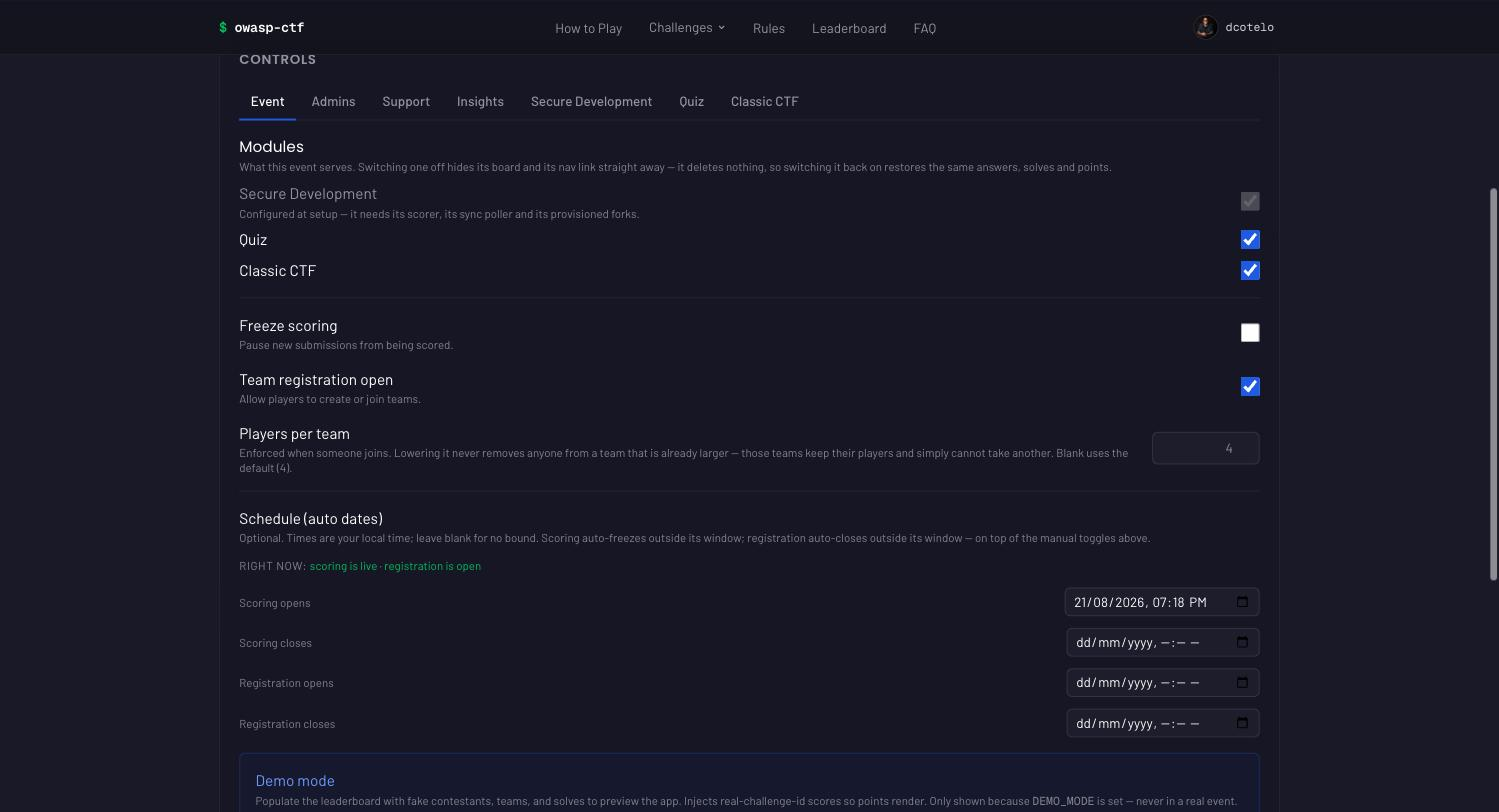
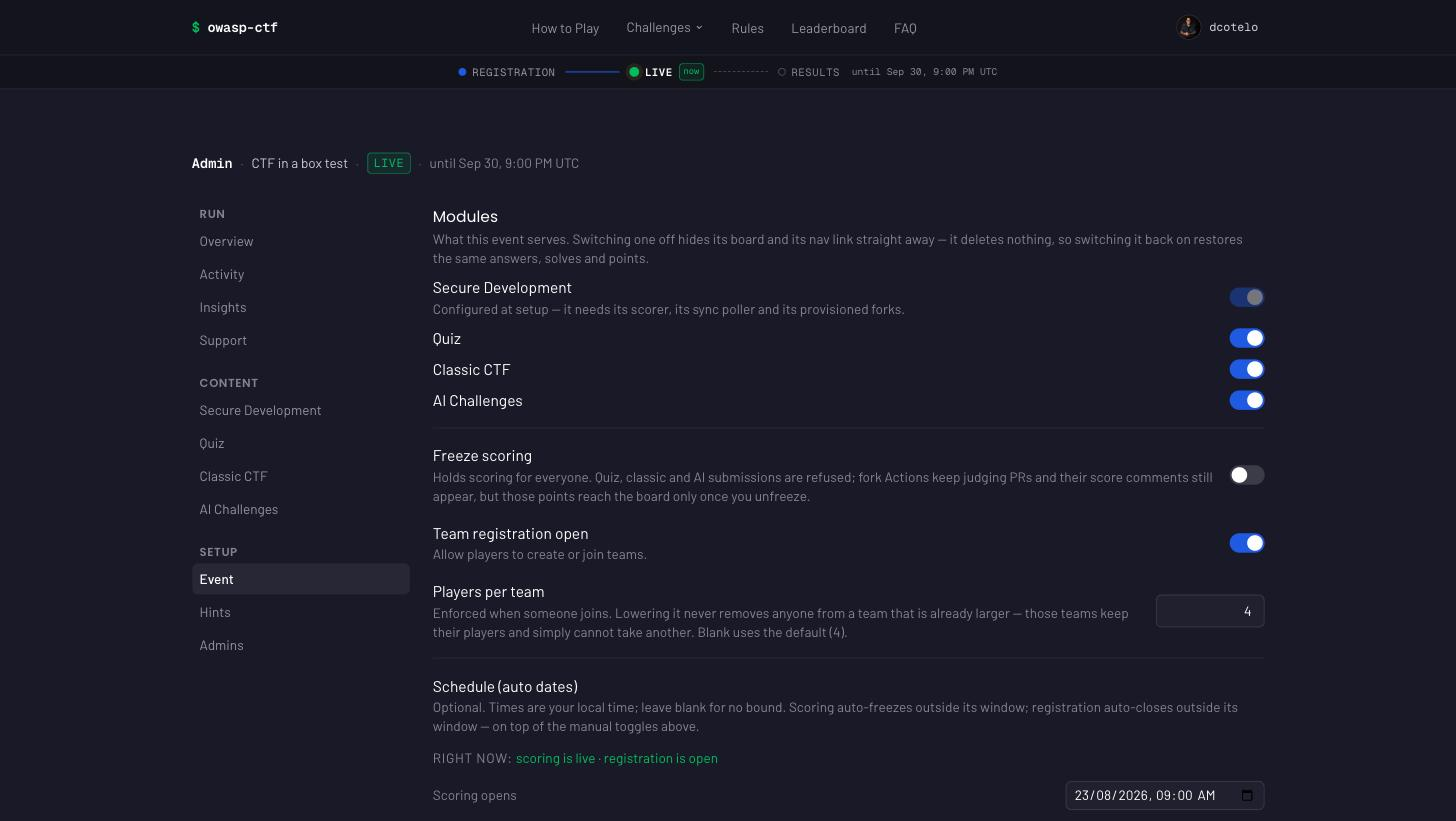
docs(assets): recapture the admin and team-row screenshots against the current UI
Four admin stills predated the admin redesign (#290/#292/#293, #297, #301,
#302, #275) and showed a panel that no longer exists: an outer CONTROLS frame
with seven flat horizontal tabs, no AI tab, module toggles as checkboxes,
categories as full-width rows with Move up / Move down / Remove, the
Hardest-first table naming every challenge by generated id, and a standalone
STATUS card that Overview has since absorbed.

leaderboard-team.jpg showed the pre-#294 team row: a PTS header over flat
module chips above a flat TARGET BREAKDOWN, rather than net pts over one
progress row per module, each opening into its own detail.

All five are recaptured from the running app. admin-support.jpg now shows the
state its alt text has always described — the panel AFTER a contestant lookup,
with team and captain status, per-module points and solves, attempts and hint
spend, and the reset/delete controls beneath — instead of the empty form above
it. The lookup uses the event owner's own account, since docs/assets is
published to the Pages site.

Two alt texts described controls the redesign replaced, so they are corrected
alongside the images they label: classic's categories are chips carrying
rename (#306) as well as move and remove, and a challenge row's delete now
lives in its row menu rather than beside Edit; the team row opens into a
progress row per module rather than a per-target list.

The new images are 1456x821 rather than the 1499x812 they replace. The capture
[…]

diff --git a/CHANGELOG.md b/CHANGELOG.md
@@ -62,6 +62,26 @@ repo-level — `apps/web/package.json` tracks the current tag; `scorer` and
   board" beneath it — the same wrong claim in a second voice. When a
   denominator changes, every reader of it changes with it.
 
+- **The admin screenshots in the docs show the admin panel that exists
+  (#321).** Four of them predated the redesign entirely: an outer `CONTROLS`
+  frame with seven flat horizontal tabs, no AI tab at all, module toggles as
+  checkboxes, categories as full-width rows with Move up / Move down / Remove,
+  the Hardest-first table naming every challenge by generated id, and a
+  standalone STATUS card that Overview absorbed. `leaderboard-team.jpg` showed
+  the pre-#294 team row — a `PTS` header over flat module chips above a flat
+  target list — rather than `net pts` over one progress row per module.
+
+  All five are recaptured against the running app, and two alt texts that
+  described replaced controls are corrected with them: the category chips now
+  carry rename (#306) as well as move and remove, and a challenge row's
+  delete lives in its row menu rather than beside Edit. `admin-support.jpg`
+  now shows the state its own alt text has always described — the panel after
+  a contestant lookup, not the empty form above it.
+
+  `demo.gif` is still the pre-#294 row and is not re-recorded here: its value
+  is a rising score-over-time sweep, which needs a demo-seeded event rather
+  than the one this was captured on. Tracked on #321.
+
 - **Security: two unauthenticated RCE advisories in Next.js are closed
   (#238).** `next` moves 16.3.2 → **16.3.4**, which the release notes list as
   carrying fixes for

diff --git a/docs/index.md b/docs/index.md
@@ -154,10 +154,11 @@ counts **once**, so a team's total can be less than its members' scores added
 up. Organizers open or close registration from the admin panel. See
 [Operations](operations.md#teams).
 
-![An expanded team row on the leaderboard: member chips with each player's own points, one block per module showing what it contributed to the total, then the per-target breakdown](assets/leaderboard-team.jpg)
+![An expanded team row on the leaderboard: member chips with each player's own points, then one progress row per module showing what it contributed to the total, each opening into its own per-item detail](assets/leaderboard-team.jpg)
 
-<sup>A team row, expanded: who's on it, what each module contributed, and the
-per-target detail — the whole total accounted for in one place.</sup>
+<sup>A team row, expanded: who's on it, what each module contributed, and a
+row per module that opens into its own detail — the whole total accounted for
+in one place.</sup>
 
 ## Organizer admin panel
 

diff --git a/docs/operations.md b/docs/operations.md
@@ -1056,7 +1056,7 @@ those categories, each heading carrying its count. A challenge itself has a titl
 category (picked from that list), a Markdown description (a live preview
 renders alongside the box as you type), a point value, and a flag.
 
-![The Classic module's admin tab: the module's title and blurb, the submission cooldown, the ordered category list with move and remove controls, and the challenge list with drag-to-reorder, edit and delete](assets/admin-classic.jpg)
+![The Classic module's admin tab: the module's title and blurb, the submission cooldown, the ordered categories as chips carrying move, rename and remove controls, and the challenge list grouped by category with drag-to-reorder, Edit, and a per-row menu for the rest](assets/admin-classic.jpg)
 
 <sup>The whole module is authored here — categories, challenges, cooldown,
 even the module's display name — live, with no rebuild.</sup>
